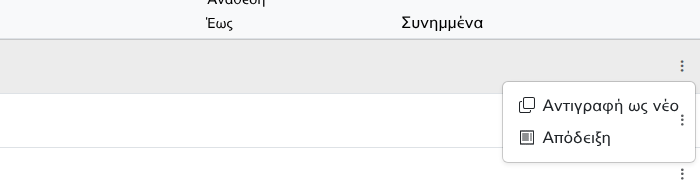
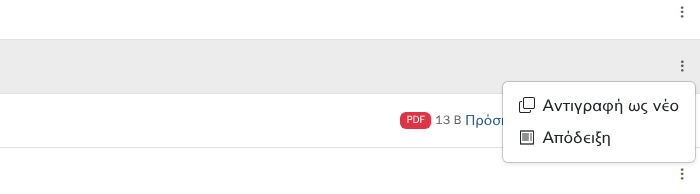
R2h review: the open ⋮ menu is above the rows below it

diff --git a/e2e/tests/protocol-list.spec.js b/e2e/tests/protocol-list.spec.js
@@ -246,8 +246,11 @@ test('a date out of order: a warning in the form, ⚠ with its explanation in th
 test('a row\'s actions are under ⋮: copy and receipt (R2h)', async ({ page, context }) => {
   await login(page, 'admin');
   await page.goto('/home/list');
-  const row = page.locator('.protocol-row').first();
-  const id = await row.getAttribute('data-id');
+  // a row followed by one with attachment links, which the open menu covers (review of R2h)
+  const id = await page.evaluate(() => [...document.querySelectorAll('.protocol-row')]
+    .find((tr) => tr.nextElementSibling?.matches('.protocol-row') && tr.nextElementSibling.querySelector('a.z-2[href*="/download/"]'))?.dataset.id);
+  expect(id, 'a row followed by one with attachments in the demo').toBeTruthy();
+  const row = page.locator(`.protocol-row[data-id="${id}"]`);
   await expect(row.getByRole('link', { name: 'Αντιγραφή ως νέο' })).toBeHidden();   // only in the menu
 
   await row.locator('.row-actions').click();
@@ -256,6 +259,22 @@ test('a row\'s actions are under ⋮: copy and receipt (R2h)', async ({ page, co
   await expect(menu.locator('[data-action=copy]')).toBeVisible();
   await expect(menu.locator('[data-action=receipt]')).toBeVisible();
   await expect(page).toHaveURL(/\/home\/list/);   // the ⋮ does not open the protocol
+  // review of R2h: where the open menu overlaps a later row's link, the menu is on top (it gets the click)
+  const covered = await menu.evaluate((m) => {
+    const box = m.getBoundingClientRect();
+    const out = [];
+    for (const a of document.querySelectorAll('.protocol-row a.z-2, .protocol-row .z-2 a')) {
+      if (m.contains(a)) continue;
+      const r = a.getBoundingClientRect();
+      const x1 = Math.max(box.left, r.left), x2 = Math.min(box.right, r.right);
+      const y1 = Math.max(box.top, r.top), y2 = Math.min(box.bottom, r.bottom);
+      if (x2 - x1 < 2 || y2 - y1 < 2) continue;
+      out.push(m.contains(document.elementFromPoint((x1 + x2) / 2, (y1 + y2) / 2)));
+    }
+    return out;
+  });
+  expect(covered.length, 'the menu overlaps a link of the rows below').toBeGreaterThan(0);
+  expect(covered.every(Boolean), 'the menu is above those links').toBe(true);
   const box = await row.boundingBox();
   await evidence(page, 'r2h-row-menu', { clip: { x: box.x + box.width - 700, y: Math.max(0, box.y - 40), width: 700, height: box.height + 140 } });
 

diff --git a/resources/modern/app.scss b/resources/modern/app.scss
@@ -159,3 +159,6 @@ body.sorting .form-zone { min-height: 4rem; outline: 2px dashed rgba(var(--bs-pr
 // R2h: the row's actions under ⋮ (narrow column)
 .row-actions-cell { width: 2.5rem; }
 .row-actions { line-height: 1; padding: 0.25rem 0.4rem; }
+
+// R2h review: while open, the ⋮ menu is above the rows below it (their links are z-2 too, and later ones win)
+.protocol-row .dropdown:has(.dropdown-menu.show) { z-index: 1000 !important; }   // the z-2 utility is !important

diff --git a/docs/reports/R2h.md b/docs/reports/R2h.md
@@ -36,3 +36,11 @@ all times: put them under a three-dot button, to save space.
 
 ## Owner actions
 None. To try it: step 36 in [OWNER-TODO.md](../../OWNER-TODO.md).
+
+## Review
+- Codex (P2): an open menu over the next rows was drawn under their attachment links, which could take the click
+  meant for the menu. The menu's wrapper and those links are on the same layer, and later rows win.
+  - Fixed: while open, the menu's wrapper is raised above the rows. Bootstrap's `z-2` helper is `!important`, so the
+    rule is too.
+  - Browser test: wherever the open menu overlaps a later row's link, the menu is on top. It failed before the fix,
+    with an attachment link on top.
